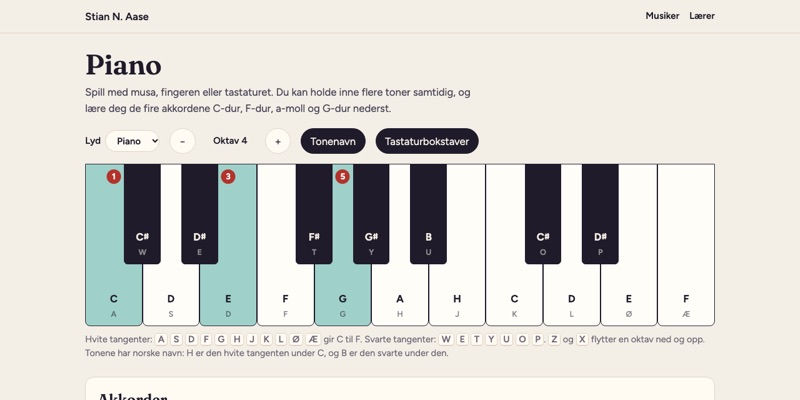
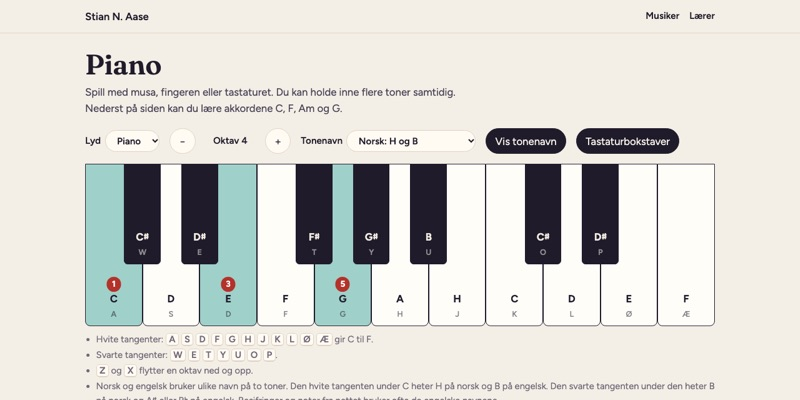
Piano: valg av tonenavn (norsk/engelsk), akkorder som besifringer (C, F, Am, G)

diff --git a/laerer/index.html b/laerer/index.html
@@ -33,7 +33,7 @@
   <div style="justify-self:center"><svg viewBox="0 0 300 190" width="360" role="img" aria-label="Tegning av en skoletavle"><rect x="8" y="8" width="284" height="160" rx="10" class="f-wood"/><rect x="18" y="18" width="264" height="140" rx="6" class="f-board"/><path d="M40 112 H260" class="s-chalk" stroke-width="2.4" stroke-linecap="round"/><path d="M40 112 v10" class="s-chalk" stroke-width="2" stroke-linecap="round"/><path d="M62 112 v6" class="s-chalk" stroke-width="2" stroke-linecap="round"/><path d="M84 112 v6" class="s-chalk" stroke-width="2" stroke-linecap="round"/><path d="M106 112 v6" class="s-chalk" stroke-width="2" stroke-linecap="round"/><path d="M128 112 v6" class="s-chalk" stroke-width="2" stroke-linecap="round"/><path d="M150 112 v10" class="s-chalk" stroke-width="2" stroke-linecap="round"/><path d="M172 112 v6" class="s-chalk" stroke-width="2" stroke-linecap="round"/><path d="M194 112 v6" class="s-chalk" stroke-width="2" stroke-linecap="round"/><path d="M216 112 v6" class="s-chalk" stroke-width="2" stroke-linecap="round"/><path d="M238 112 v6" class="s-chalk" stroke-width="2" stroke-linecap="round"/><path d="M260 112 v10" class="s-chalk" stroke-width="2" stroke-linecap="round"/><circle cx="128" cy="112" r="5" class="f-gold"/><path d="M60 92 L60 48 L104 92 Z" fill="none" class="s-chalk" stroke-width="2.2" stroke-linejoin="round"/><path d="M60 84 h8 v8" fill="none" class="s-chalk" stroke-width="1.6"/><text x="120" y="66" class="f-chalk" font-family="Fraunces, Georgia, serif" font-style="italic" font-size="22">a² + b²</text><rect x="196" y="40" width="11" height="11" rx="2" class="f-chalk" fill="" stroke-width="1.5" opacity="1"/><rect x="209" y="40" width="11" height="11" rx="2" class="f-chalk" fill="" stroke-width="1.5" opacity="1"/><rect x="222" y="40" width="11" height="11" rx="2" class="f-chalk" fill="" stroke-width="1.5" opacity="1"/><rect x="235" y="40" width="11" height="11" rx="2" class="f-chalk" fill="" stroke-width="1.5" opacity="1"/><rect x="248" y="40" width="11" height="11" rx="2" class="f-chalk" fill="" stroke-width="1.5" opacity="1"/><rect x="196" y="53" width="11" height="11" rx="2" class="f-chalk" fill="" stroke-width="1.5" opacity="1"/><rect x="209" y="53" width="11" height="11" rx="2" class="f-chalk" fill="" stroke-width="1.5" opacity="1"/><rect x="222" y="53" width="11" height="11" rx="2" class="s-chalk" fill="none" stroke-width="1.5" opacity="0.8"/><rect x="235" y="53" width="11" height="11" rx="2" class="s-chalk" fill="none" stroke-width="1.5" opacity="0.8"/><rect x="248" y="53" width="11" height="11" rx="2" class="s-chalk" fill="none" stroke-width="1.5" opacity="0.8"/><path d="M256 132 l3 -8 3 8 8 3 -8 3 -3 8 -3 -8 -8 -3z" class="f-gold"/><path d="M236 144 l1.6 -4 1.6 4 4 1.6 -4 1.6 -1.6 4 -1.6 -4 -4 -1.6z" class="f-chalk"/><rect x="40" y="170" width="220" height="10" rx="4" class="f-wood"/><rect x="70" y="164" width="26" height="7" rx="2" class="f-chalk"/></svg></div>
 </div></div>
 <div class="wrap"><svg class="belg" aria-hidden="true" preserveAspectRatio="none"><rect width="100%" height="26" fill="url(#zz)"/></svg></div>
-<section><div class="wrap"><div class="tool-group"><header><svg viewBox="0 0 48 48" aria-hidden="true"><rect x="4" y="7" width="40" height="28" rx="4" class="f-board"/><rect x="2" y="35" width="44" height="5" rx="2" class="f-wood"/><text x="10" y="27" font-family="Fraunces, serif" font-size="15" font-style="italic" class="f-chalk">ord</text><circle cx="37" cy="15" r="3" class="f-gold"/></svg><div><h2>Øvingstavler</h2><p>Til én elev, en liten gruppe eller hele klassen, fra barnetrinnet til ungdomstrinnet.</p></div></header><ul class="tools "><li><a class="tool" style="--accent:#2f6f73" href="talltavla.html"><img class="shot" src="bilder/talltavla.jpg" alt="Talltavla med en tallinje fra 0 til 100 og spørsmålet om hvor et tall ligger" width="800" height="400" loading="lazy"><span class="name">Talltavla<svg><use href="#i-ext"/></svg></span><div class="meta">Tallforståelse på tavla: tallinje, muntlig drill, brøk og prosent, oppstilte regnestykker og korte tallspill.</div><div class="ide"><b>Prøv:</b> Start med fem minutter muntlig drill, og la eleven vise på tallinja hvor svaret ligger.</div></a></li><li><a class="tool" style="--accent:#2f6f73" href="ordtavla.html"><img class="shot" src="bilder/ordtavla.jpg" alt="Ordtavla med ord der kj-lyden er markert: kjøtt, kjede, kjøkken og flere" width="800" height="400" loading="lazy"><span class="name">Ordtavla<svg><use href="#i-ext"/></svg></span><div class="meta">Høyfrekvente ord, lydmønstre, ordbygging, ordlek og lesing på norsk. Du velger fanen som passer eleven.</div><div class="ide"><b>Prøv:</b> Ti minutter med én elev kan være noen runder høyfrekvente ord og ett lydmønster, som kj, lest rad for rad.</div></a></li><li><a class="tool" style="--accent:#2f6f73" href="engelsktavla.html"><img class="shot" src="bilder/engelsktavla.jpg" alt="Engelsktavla med setningen «The ball is over ___.» og valgene their og there" width="800" height="400" loading="lazy"><span class="name">Engelsktavla<svg><use href="#i-ext"/></svg></span><div class="meta">Lyd og skrift i engelsk: vanlige ord, skoleord, lydmønstre, ordbygging og uregelmessige verb.</div><div class="ide"><b>Prøv:</b> Ta en kort runde med Samme lyd før skriving, der eleven velger mellom ord som their og there.</div></a></li><li><a class="tool" style="--accent:#2f6f73" href="begrepstavla.html"><img class="shot" src="bilder/begrepstavla.jpg" alt="Begrepstavla med begrepet «konsument» stort på skjermen" width="800" height="400" loading="lazy"><span class="name">Begrepstavla<svg><use href="#i-ext"/></svg></span><div class="meta">Du limer inn fagbegrepene fra temaet, og tavla gir ni måter å snakke om dem på.</div><div class="ide"><b>Prøv:</b> Lim inn begrepene fra temaet før timen, og la eleven forklare et begrep uten å si ordet.</div></a></li></ul></div><div class="tool-group"><header><svg viewBox="0 0 48 48" aria-hidden="true"><rect x="4" y="4" width="40" height="40" rx="10" class="f-redsoft"/><path d="M19 33 V13 l15 -4 v19" fill="none" class="s-ink" stroke-width="2.6" stroke-linejoin="round"/><circle cx="15.5" cy="33" r="4" class="f-red"/><circle cx="30.5" cy="29" r="4" class="f-red"/></svg><div><h2>Musikk</h2><p>Spill, lytt og lær akkordene, på lærerens Mac eller på elevens egen.</p></div></header><ul class="tools "><li><a class="tool" style="--accent:#b3322a" href="piano.html"><img class="shot" src="bilder/piano.jpg" alt="Pianoet med C-dur merket på tangentene og fingersetting 1, 3 og 5" width="800" height="400" loading="lazy"><span class="name">Piano<svg><use href="#i-ext"/></svg></span><div class="meta">Et piano med piano-, orgel- og synthlyd. Spill med musa, fingeren eller tastaturet, gjerne flere toner samtidig.</div><div class="ide"><b>Prøv:</b> La eleven finne C-dur selv, og øv så på rekka C – G – a – F.</div></a></li><li><a class="tool" style="--accent:#b3322a" href="gehortrener.html"><img class="shot" src="bilder/gehortrener.jpg" alt="Gehørtreneren med fanene Intervaller, Dur eller moll og flere" width="800" height="400" loading="lazy"><span class="name">Gehørtrener<svg><use href="#i-ext"/></svg></span><div class="meta">Øv på intervaller, dur og moll, melodiretning og kadenser, og spill tilbake det du hører på skjermpianoet.</div><div class="ide"><b>Prøv:</b> Start med intervaller på nivå 1, og la eleven synge intervallet inni seg før svaret.</div></a></li></ul></div></div></section>
+<section><div class="wrap"><div class="tool-group"><header><svg viewBox="0 0 48 48" aria-hidden="true"><rect x="4" y="7" width="40" height="28" rx="4" class="f-board"/><rect x="2" y="35" width="44" height="5" rx="2" class="f-wood"/><text x="10" y="27" font-family="Fraunces, serif" font-size="15" font-style="italic" class="f-chalk">ord</text><circle cx="37" cy="15" r="3" class="f-gold"/></svg><div><h2>Øvingstavler</h2><p>Til én elev, en liten gruppe eller hele klassen, fra barnetrinnet til ungdomstrinnet.</p></div></header><ul class="tools "><li><a class="tool" style="--accent:#2f6f73" href="talltavla.html"><img class="shot" src="bilder/talltavla.jpg" alt="Talltavla med en tallinje fra 0 til 100 og spørsmålet om hvor et tall ligger" width="800" height="400" loading="lazy"><span class="name">Talltavla<svg><use href="#i-ext"/></svg></span><div class="meta">Tallforståelse på tavla: tallinje, muntlig drill, brøk og prosent, oppstilte regnestykker og korte tallspill.</div><div class="ide"><b>Prøv:</b> Start med fem minutter muntlig drill, og la eleven vise på tallinja hvor svaret ligger.</div></a></li><li><a class="tool" style="--accent:#2f6f73" href="ordtavla.html"><img class="shot" src="bilder/ordtavla.jpg" alt="Ordtavla med ord der kj-lyden er markert: kjøtt, kjede, kjøkken og flere" width="800" height="400" loading="lazy"><span class="name">Ordtavla<svg><use href="#i-ext"/></svg></span><div class="meta">Høyfrekvente ord, lydmønstre, ordbygging, ordlek og lesing på norsk. Du velger fanen som passer eleven.</div><div class="ide"><b>Prøv:</b> Ti minutter med én elev kan være noen runder høyfrekvente ord og ett lydmønster, som kj, lest rad for rad.</div></a></li><li><a class="tool" style="--accent:#2f6f73" href="engelsktavla.html"><img class="shot" src="bilder/engelsktavla.jpg" alt="Engelsktavla med setningen «The ball is over ___.» og valgene their og there" width="800" height="400" loading="lazy"><span class="name">Engelsktavla<svg><use href="#i-ext"/></svg></span><div class="meta">Lyd og skrift i engelsk: vanlige ord, skoleord, lydmønstre, ordbygging og uregelmessige verb.</div><div class="ide"><b>Prøv:</b> Ta en kort runde med Samme lyd før skriving, der eleven velger mellom ord som their og there.</div></a></li><li><a class="tool" style="--accent:#2f6f73" href="begrepstavla.html"><img class="shot" src="bilder/begrepstavla.jpg" alt="Begrepstavla med begrepet «konsument» stort på skjermen" width="800" height="400" loading="lazy"><span class="name">Begrepstavla<svg><use href="#i-ext"/></svg></span><div class="meta">Du limer inn fagbegrepene fra temaet, og tavla gir ni måter å snakke om dem på.</div><div class="ide"><b>Prøv:</b> Lim inn begrepene fra temaet før timen, og la eleven forklare et begrep uten å si ordet.</div></a></li></ul></div><div class="tool-group"><header><svg viewBox="0 0 48 48" aria-hidden="true"><rect x="4" y="4" width="40" height="40" rx="10" class="f-redsoft"/><path d="M19 33 V13 l15 -4 v19" fill="none" class="s-ink" stroke-width="2.6" stroke-linejoin="round"/><circle cx="15.5" cy="33" r="4" class="f-red"/><circle cx="30.5" cy="29" r="4" class="f-red"/></svg><div><h2>Musikk</h2><p>Spill, lytt og lær akkordene, på lærerens Mac eller på elevens egen.</p></div></header><ul class="tools "><li><a class="tool" style="--accent:#b3322a" href="piano.html"><img class="shot" src="bilder/piano.jpg" alt="Pianoet med C-dur merket på tangentene og fingersetting 1, 3 og 5" width="800" height="400" loading="lazy"><span class="name">Piano<svg><use href="#i-ext"/></svg></span><div class="meta">Et piano med piano-, orgel- og synthlyd. Spill med musa, fingeren eller tastaturet, gjerne flere toner samtidig.</div><div class="ide"><b>Prøv:</b> La eleven finne C-dur selv, og øv så på rekka C – G – Am – F.</div></a></li><li><a class="tool" style="--accent:#b3322a" href="gehortrener.html"><img class="shot" src="bilder/gehortrener.jpg" alt="Gehørtreneren med fanene Intervaller, Dur eller moll og flere" width="800" height="400" loading="lazy"><span class="name">Gehørtrener<svg><use href="#i-ext"/></svg></span><div class="meta">Øv på intervaller, dur og moll, melodiretning og kadenser, og spill tilbake det du hører på skjermpianoet.</div><div class="ide"><b>Prøv:</b> Start med intervaller på nivå 1, og la eleven synge intervallet inni seg før svaret.</div></a></li></ul></div></div></section>
 <section class="om-verktoy"><div class="wrap narrow"><div class="sec-head"><span class="num">om</span><h2 class="sec">Hvordan verktøyene blir til</h2></div><p>Jeg har jobbet som musiker og pedagog i over 25 år. I om lag tjue av dem underviste jeg elever én og én i kulturskolen. Der lærte jeg å lese hva den enkelte trenger akkurat nå, og å lage øvelser som passer. De siste fem årene har jeg jobbet mest på ungdomsskolen, og også der mye én og én, i spesialundervisningen. Underveis har jeg tatt videreutdanning i spesialpedagogikk, matematikk og programmering.</p><p>Med KI-verktøyene som har kommet de siste årene, henger dette sammen på en ny måte. Når jeg ser hva en elev eller en klasse trenger, kan jeg lage et verktøy for det på kort tid, prøve det i timen og justere det etterpå. Tavlene på denne siden startet slik, med konkrete situasjoner i klasserommet.</p></div></section>
 <section class="kilder"><div class="wrap narrow"><div class="sec-head"><span class="num">KI</span><h2 class="sec">Hvem som har gjort hva</h2></div><p>Tavlene er laget i samarbeid med KI-assistenten Claude fra Anthropic. Behovet, de fleste idéene og de pedagogiske valgene er mine. Claude har skrevet koden og førsteutkastene til tekstene, og jeg har prøvd tavlene i undervisningen og bestemt hva som er med. Hver ny versjon testes og faktasjekkes før den legges ut.</p>
   <details class="historikk kildefelt">

diff --git a/laerer/piano.html b/laerer/piano.html
@@ -4,7 +4,7 @@
 <meta charset="utf-8">
 <meta name="viewport" content="width=device-width, initial-scale=1">
 <title>Piano – Stian Norgård Aase</title>
-<meta name="description" content="Et piano i nettleseren med piano-, orgel- og synthlyd, og en enkel innføring i akkordene C-dur, F-dur, a-moll og G-dur.">
+<meta name="description" content="Et piano i nettleseren med piano-, orgel- og synthlyd, og en enkel innføring i akkordene C, F, Am og G.">
 <link rel="stylesheet" href="../fonter/fonter.css">
 <style>
 /* Piano 05.10.26. Lyden lages med Web Audio i nettleseren, så siden laster ingen lydfiler og lagrer ingenting.
@@ -78,12 +78,13 @@ footer a { color: inherit; }
 <header class="top"><div class="wrap"><a href="../">Stian N. Aase</a><nav><a href="../musikk/">Musiker</a><a href="./">Lærer</a></nav></div></header>
 <main class="wrap">
   <h1>Piano</h1>
-  <p class="lead">Spill med musa, fingeren eller tastaturet. Du kan holde inne flere toner samtidig. Nederst på siden kan du lære akkordene C-dur, F-dur, a-moll og G-dur.</p>
+  <p class="lead">Spill med musa, fingeren eller tastaturet. Du kan holde inne flere toner samtidig. Nederst på siden kan du lære akkordene C, F, Am og G.</p>
 
   <div class="controls">
     <label>Lyd <select id="lyd"><option value="piano">Piano</option><option value="orgel">Orgel</option><option value="synth">Synth</option></select></label>
     <span class="oktav"><button id="ned" type="button" aria-label="En oktav ned">−</button><span id="oktavTekst">Oktav 4</span><button id="opp" type="button" aria-label="En oktav opp">+</button></span>
-    <button id="navnBtn" type="button" class="on" aria-pressed="true">Tonenavn</button>
+    <label>Tonenavn <select id="navnValg"><option value="no">Norsk: H og B</option><option value="kryss">Engelsk med ♯: B og A♯</option><option value="b">Engelsk med ♭: B og B♭</option></select></label>
+    <button id="navnBtn" type="button" class="on" aria-pressed="true">Vis tonenavn</button>
     <button id="tastBtn" type="button" class="on" aria-pressed="true">Tastaturbokstaver</button>
   </div>
 
@@ -92,7 +93,7 @@ footer a { color: inherit; }
     <li>Hvite tangenter: <kbd>A</kbd> <kbd>S</kbd> <kbd>D</kbd> <kbd>F</kbd> <kbd>G</kbd> <kbd>H</kbd> <kbd>J</kbd> <kbd>K</kbd> <kbd>L</kbd> <kbd>Ø</kbd> <kbd>Æ</kbd> gir C til F.</li>
     <li>Svarte tangenter: <kbd>W</kbd> <kbd>E</kbd> <kbd>T</kbd> <kbd>Y</kbd> <kbd>U</kbd> <kbd>O</kbd> <kbd>P</kbd>.</li>
     <li><kbd>Z</kbd> og <kbd>X</kbd> flytter en oktav ned og opp.</li>
-    <li>Tonene har norske navn: H er den hvite tangenten under C, og B er den svarte under den.</li>
+    <li>Norsk og engelsk bruker ulike navn på to toner. Den hvite tangenten under C heter H på norsk og B på engelsk. Den svarte tangenten under den heter B på norsk og A♯ eller B♭ på engelsk. Besifringer og noter fra nettet bruker ofte de engelske navnene.</li>
   </ul>
 
   <section class="akkorder" aria-labelledby="akkTittel">
@@ -111,7 +112,7 @@ footer a { color: inherit; }
     <h2 style="margin-top:1rem">Øv på en akkordrekke</h2>
     <p class="forklaring">Spill akkordene i rekkefølge. Når en akkord sitter, kommer den neste.</p>
     <div class="controls">
-      <label>Rekke <select id="rekkeValg"><option value="">Velg</option><option value="C F G C">C – F – G – C</option><option value="C G a F">C – G – a – F (mye brukt i pop)</option></select></label>
+      <label>Rekke <select id="rekkeValg"><option value="">Velg</option><option value="C F G C">C – F – G – C</option><option value="C G Am F">C – G – Am – F (mye brukt i pop)</option></select></label>
       <button id="rekkeNy" type="button" hidden>Start på nytt</button>
     </div>
     <div class="rekke" id="rekke"></div>
@@ -127,7 +128,13 @@ footer a { color: inherit; }
 
   /* ---------- Tonene ---------- */
   // Halvtoner fra C: norske navn (H-systemet, B = svart tangent under H)
-  const NAVN = ["C", "C♯", "D", "D♯", "E", "F", "F♯", "G", "G♯", "A", "B", "H"];
+  // Tre navnesett: norsk (H-systemet), og engelsk med kryss eller b for de svarte tangentene
+  const NAVNESETT = {
+    no:    ["C", "C♯", "D", "D♯", "E", "F", "F♯", "G", "G♯", "A", "B", "H"],
+    kryss: ["C", "C♯", "D", "D♯", "E", "F", "F♯", "G", "G♯", "A", "A♯", "B"],
+    b:     ["C", "D♭", "D", "E♭", "E", "F", "G♭", "G", "A♭", "A", "B♭", "B"],
+  };
+  let NAVN = NAVNESETT.no;
   // Klaviaturet går fra C til F en oktav over (17 halvtoner). Tastene følger fysisk plassering (e.code), så de virker på alle oppsett.
   const HVITE = [0, 2, 4, 5, 7, 9, 11, 12, 14, 16, 17];
   const SVARTE = [1, 3, 6, 8, 10, 13, 15];
@@ -214,9 +221,16 @@ footer a { color: inherit; }
   function lagTangent(steg, farge, x, w) {
     const k = document.createElement("div");
     k.className = "key " + farge; k.style.left = x + "%"; k.style.width = w + "%";
-    k.dataset.steg = steg; k.setAttribute("role", "button"); k.setAttribute("aria-label", NAVN[steg % 12] + (steg >= 12 ? " i oktaven over" : ""));
-    k.innerHTML = `<span class="navn">${NAVN[steg % 12]}</span><span class="tast">${BOKSTAV[steg]}</span>`;
+    k.dataset.steg = steg; k.setAttribute("role", "button");
+    k.innerHTML = `<span class="navn"></span><span class="tast">${BOKSTAV[steg]}</span>`;
     piano.appendChild(k); tangent[steg] = k;
+  }
+  function skrivNavn() {
+    Object.entries(tangent).forEach(([steg, k]) => {
+      k.querySelector(".navn").textContent = NAVN[steg % 12];
+      k.setAttribute("aria-label", NAVN[steg % 12] + (steg >= 12 ? " i oktaven over" : ""));
+    });
+    if (valgt) velgAkkord(valgt, true);
   }
   function trykk(steg, kilde) {
     let n = nede.get(steg);
@@ -288,22 +302,24 @@ footer a { color: inherit; }
     const pa = piano.classList.toggle(klasse); $(id).classList.toggle("on", !pa); $(id).setAttribute("aria-pressed", String(!pa));
   };
   bryter("#navnBtn", "skjul-navn"); bryter("#tastBtn", "skjul-tast");
+  $("#navnValg").addEventListener("change", () => { NAVN = NAVNESETT[$("#navnValg").value]; skrivNavn(); $("#navnValg").blur(); });
   $("#lyd").addEventListener("change", () => $("#lyd").blur());
   // Etter museklikk på en knapp slippes fokus, så tastaturet spiller videre
   document.addEventListener("click", e => { const b = e.target.closest && e.target.closest("button"); if (b && e.detail > 0) b.blur(); });
 
   /* ---------- Akkorder ---------- */
   // steg = tangentene i grunnstilling innenfor klaviaturet, f = fingersetting for høyre hånd
+  // Navnene er besifringer (C, F, Am, G). Teksten bygges med tonenavnene i valgt navnesett.
   const AKKORD = {
-    C: { navn: "C-dur", steg: [0, 4, 7], f: [1, 3, 5], om: "Grunntonen C, den store tersen E og kvinten G. Durakkorder låter ofte lyse og stabile." },
-    F: { navn: "F-dur", steg: [5, 9, 12], f: [1, 3, 5], om: "Grunntonen F, den store tersen A og kvinten C." },
-    a: { navn: "a-moll", steg: [9, 12, 16], f: [1, 3, 5], om: "Grunntonen A, den lille tersen C og kvinten E. Mollakkorder låter ofte mørkere enn dur. Akkorder i moll skrives gjerne med liten bokstav." },
-    G: { navn: "G-dur", steg: [7, 11, 14], f: [1, 3, 5], om: "Grunntonen G, den store tersen H og kvinten D." },
+    C:  { navn: "C", lang: "C-dur", steg: [0, 4, 7], f: [1, 3, 5], om: t => `Grunntonen ${t[0]}, den store tersen ${t[1]} og kvinten ${t[2]}. Durakkorder låter ofte lyse og stabile.` },
+    F:  { navn: "F", lang: "F-dur", steg: [5, 9, 12], f: [1, 3, 5], om: t => `Grunntonen ${t[0]}, den store tersen ${t[1]} og kvinten ${t[2]}.` },
+    Am: { navn: "Am", lang: "a-moll", steg: [9, 12, 16], f: [1, 3, 5], om: t => `Grunntonen ${t[0]}, den lille tersen ${t[1]} og kvinten ${t[2]}. Mollakkorder låter ofte mørkere enn dur, og m-en i Am betyr moll.` },
+    G:  { navn: "G", lang: "G-dur", steg: [7, 11, 14], f: [1, 3, 5], om: t => `Grunntonen ${t[0]}, den store tersen ${t[1]} og kvinten ${t[2]}.` },
   };
   let valgt = null, fingre = false, rekke = [], rekkeIdx = 0;
   const klasser = s => new Set(s.map(x => x % 12));
   Object.keys(AKKORD).forEach(k => {
-    const b = document.createElement("button"); b.type = "button"; b.textContent = AKKORD[k].navn; b.dataset.akk = k;
+    const b = document.createElement("button"); b.type = "button"; b.textContent = AKKORD[k].navn; b.setAttribute("aria-label", AKKORD[k].lang); b.dataset.akk = k;
     b.onclick = () => velgAkkord(k); $("#akkValg").appendChild(b);
   });
   function merk() {
@@ -314,14 +330,15 @@ footer a { color: inherit; }
       if (fingre && !rekke.length) { const f = document.createElement("span"); f.className = "finger"; f.textContent = AKKORD[k].f[i]; tangent[s].appendChild(f); }
     });
   }
-  function velgAkkord(k) {
-    valgt = k; settRekke("");
+  function velgAkkord(k, bareTekst) {
+    valgt = k; if (!bareTekst) settRekke("");
     document.querySelectorAll("#akkValg button").forEach(b => b.classList.toggle("on", b.dataset.akk === k));
     const a = AKKORD[k];
     $("#akkInfo").hidden = false;
-    $("#akkToner").textContent = a.navn + ": " + a.steg.map(s => NAVN[s % 12]).join(" – ");
-    $("#akkForklaring").textContent = a.om + " Spill de tre tonene samtidig. Du kan også legge tonene i en annen rekkefølge. Ligger en annen tone enn grunntonen nederst, kalles det en omvending.";
-    $("#status").textContent = ""; $("#status").className = "status";
+    const t = a.steg.map(s => NAVN[s % 12]);
+    $("#akkToner").textContent = a.navn + " (" + a.lang + "): " + t.join(" – ");
+    $("#akkForklaring").textContent = a.om(t) + " Spill de tre tonene samtidig. Du kan også legge tonene i en annen rekkefølge. Ligger en annen tone enn grunntonen nederst, kalles det en omvending.";
+    if (!bareTekst) { $("#status").textContent = ""; $("#status").className = "status"; }
     merk();
   }
   $("#fingerBtn").onclick = () => {
@@ -372,7 +389,7 @@ footer a { color: inherit; }
   $("#rekkeNy").onclick = () => settRekke($("#rekkeValg").value);
   $("#rekkeValg").addEventListener("change", () => { settRekke($("#rekkeValg").value); $("#rekkeValg").blur(); });
 
-  tegnKlaviatur();
+  tegnKlaviatur(); skrivNavn();
   // Testkrok for riggen (ingen virkning for brukeren)
   window.__piano = { trykk, slipp, slippAlle, velgAkkord, settRekke, nede, tangent, KODE, AKKORD, get oktav() { return oktav; }, flyttOktav };
 })();

diff --git a/musikk/index.html b/musikk/index.html
@@ -46,7 +46,7 @@
   <ul class="records"><li class="rec"><svg class="disc" viewBox="0 0 120 120" role="img" aria-label="Plate: The Journeyman's Test"><g class="spin"><circle cx="60" cy="60" r="58" fill="#1a1722"/><circle cx="60" cy="60" r="30" fill="none" stroke="#fff" stroke-opacity=".07" stroke-width="1"/><circle cx="60" cy="60" r="34" fill="none" stroke="#fff" stroke-opacity=".07" stroke-width="1"/><circle cx="60" cy="60" r="38" fill="none" stroke="#fff" stroke-opacity=".07" stroke-width="1"/><circle cx="60" cy="60" r="42" fill="none" stroke="#fff" stroke-opacity=".07" stroke-width="1"/><circle cx="60" cy="60" r="46" fill="none" stroke="#fff" stroke-opacity=".07" stroke-width="1"/><circle cx="60" cy="60" r="50" fill="none" stroke="#fff" stroke-opacity=".07" stroke-width="1"/><circle cx="60" cy="60" r="54" fill="none" stroke="#fff" stroke-opacity=".07" stroke-width="1"/><path d="M60 4 A56 56 0 0 1 112 42" fill="none" stroke="#fff" stroke-opacity=".18" stroke-width="3" stroke-linecap="round"/><circle cx="60" cy="60" r="24" fill="#b3322a"/><text x="60" y="64.5" text-anchor="middle" font-family="Figtree, sans-serif" font-weight="700" font-size="12" fill="#fff" letter-spacing=".5">R|A</text><circle cx="60" cy="60" r="2.6" fill="#1a1722"/></g></svg><div><img class="logo" src="royseng-aase-logo.jpg" alt="Røyseng | Aase" width="2000" height="158"><div class="who">Røyseng/Aase</div><div class="title">The Journeyman's Test</div><div class="meta">2008 · duo for to bajaner: Grieg, Piazzolla, Vivaldi og Bach, og ny norsk musikk</div><div class="pills"><a href="https://open.spotify.com/album/3mA7PVB6mHPPDYkiJm0med"><svg><use href="#i-play"/></svg>Spotify</a><a href="https://play.qobuz.com/album/kblv3fd0qxf9b"><svg><use href="#i-play"/></svg>Qobuz</a></div><div class="utdrag" data-spor="2kst5Kno0jMRRMKuNYsOPi"><button type="button" class="spill"><svg><use href="#i-play"/></svg>Hør «Close Your Eyes And Listen»</button></div></div></li><li class="rec"><svg class="disc" viewBox="0 0 120 120" role="img" aria-label="Plate: Hekla Stålstrenga"><g class="spin"><circle cx="60" cy="60" r="58" fill="#1a1722"/><circle cx="60" cy="60" r="30" fill="none" stroke="#fff" stroke-opacity=".07" stroke-width="1"/><circle cx="60" cy="60" r="34" fill="none" stroke="#fff" stroke-opacity=".07" stroke-width="1"/><circle cx="60" cy="60" r="38" fill="none" stroke="#fff" stroke-opacity=".07" stroke-width="1"/><circle cx="60" cy="60" r="42" fill="none" stroke="#fff" stroke-opacity=".07" stroke-width="1"/><circle cx="60" cy="60" r="46" fill="none" stroke="#fff" stroke-opacity=".07" stroke-width="1"/><circle cx="60" cy="60" r="50" fill="none" stroke="#fff" stroke-opacity=".07" stroke-width="1"/><circle cx="60" cy="60" r="54" fill="none" stroke="#fff" stroke-opacity=".07" stroke-width="1"/><path d="M60 4 A56 56 0 0 1 112 42" fill="none" stroke="#fff" stroke-opacity=".18" stroke-width="3" stroke-linecap="round"/><circle cx="60" cy="60" r="24" fill="#2f6f73"/><text x="60" y="64.5" text-anchor="middle" font-family="Figtree, sans-serif" font-weight="700" font-size="12" fill="#fff" letter-spacing=".5">HS</text><circle cx="60" cy="60" r="2.6" fill="#1a1722"/></g></svg><div><div class="who">Hekla Stålstrenga</div><div class="title">Hekla Stålstrenga</div><div class="meta">2008 · <a href="https://no.wikipedia.org/wiki/Spellemannprisen_2008">nominert til Spellemannprisen</a> · trekkspill på «Hjertebank», også på samleplata <a href="https://www.discogs.com/release/6915516-Various-FolkeLarm-Oslo2009">FolkeLarm Oslo2009</a></div><div class="pills"><a href="https://open.spotify.com/album/0ZYuiQuKbJpBzC7t4WRTEW"><svg><use href="#i-play"/></svg>Spotify</a><a href="https://play.qobuz.com/album/hf58759hqlthc"><svg><use href="#i-play"/></svg>Qobuz</a></div><div class="utdrag" data-spor="4IIa8m1o6p906FJPgXB2cd"><button type="button" class="spill"><svg><use href="#i-play"/></svg>Hør «Hjertebank»</button></div></div></li><li class="rec"><svg class="disc" viewBox="0 0 120 120" role="img" aria-label="Plate: Borderland / Grenseland"><g class="spin"><circle cx="60" cy="60" r="58" fill="#1a1722"/><circle cx="60" cy="60" r="30" fill="none" stroke="#fff" stroke-opacity=".07" stroke-width="1"/><circle cx="60" cy="60" r="34" fill="none" stroke="#fff" stroke-opacity=".07" stroke-width="1"/><circle cx="60" cy="60" r="38" fill="none" stroke="#fff" stroke-opacity=".07" stroke-width="1"/><circle cx="60" cy="60" r="42" fill="none" stroke="#fff" stroke-opacity=".07" stroke-width="1"/><circle cx="60" cy="60" r="46" fill="none" stroke="#fff" stroke-opacity=".07" stroke-width="1"/><circle cx="60" cy="60" r="50" fill="none" stroke="#fff" stroke-opacity=".07" stroke-width="1"/><circle cx="60" cy="60" r="54" fill="none" stroke="#fff" stroke-opacity=".07" stroke-width="1"/><path d="M60 4 A56 56 0 0 1 112 42" fill="none" stroke="#fff" stroke-opacity=".18" stroke-width="3" stroke-linecap="round"/><circle cx="60" cy="60" r="24" fill="#c98f22"/><text x="60" y="64.5" text-anchor="middle" font-family="Figtree, sans-serif" font-weight="700" font-size="12" fill="#fff" letter-spacing=".5">IBB</text><circle cx="60" cy="60" r="2.6" fill="#1a1722"/></g></svg><div><div class="who">Ingunn Bjørgo Band</div><div class="title">Borderland / Grenseland</div><div class="meta">2007 · folkemusikk</div><div class="pills"><a href="https://open.spotify.com/album/60YQohKBx2l9gAlGfPeEDb"><svg><use href="#i-play"/></svg>Spotify</a><a href="https://music.apple.com/us/album/borderland-grenseland/297380135"><svg><use href="#i-play"/></svg>Apple Music</a><a href="https://play.qobuz.com/album/oevibdim8wibc"><svg><use href="#i-play"/></svg>Qobuz</a></div><div class="utdrag" data-spor="0zp1joct8hEgBBdTvRWVUi"><button type="button" class="spill"><svg><use href="#i-play"/></svg>Hør «Askerladd på avveie»</button></div></div></li><li class="rec"><svg class="disc" viewBox="0 0 120 120" role="img" aria-label="Plate: Full Oppladding"><g class="spin"><circle cx="60" cy="60" r="58" fill="#1a1722"/><circle cx="60" cy="60" r="30" fill="none" stroke="#fff" stroke-opacity=".07" stroke-width="1"/><circle cx="60" cy="60" r="34" fill="none" stroke="#fff" stroke-opacity=".07" stroke-width="1"/><circle cx="60" cy="60" r="38" fill="none" stroke="#fff" stroke-opacity=".07" stroke-width="1"/><circle cx="60" cy="60" r="42" fill="none" stroke="#fff" stroke-opacity=".07" stroke-width="1"/><circle cx="60" cy="60" r="46" fill="none" stroke="#fff" stroke-opacity=".07" stroke-width="1"/><circle cx="60" cy="60" r="50" fill="none" stroke="#fff" stroke-opacity=".07" stroke-width="1"/><circle cx="60" cy="60" r="54" fill="none" stroke="#fff" stroke-opacity=".07" stroke-width="1"/><path d="M60 4 A56 56 0 0 1 112 42" fill="none" stroke="#fff" stroke-opacity=".18" stroke-width="3" stroke-linecap="round"/><circle cx="60" cy="60" r="24" fill="#5b3f75"/><text x="60" y="64.5" text-anchor="middle" font-family="Figtree, sans-serif" font-weight="700" font-size="12" fill="#fff" letter-spacing=".5">AL</text><circle cx="60" cy="60" r="2.6" fill="#1a1722"/></g></svg><div><div class="who">Askerladden</div><div class="title">Full Oppladding</div><div class="meta">2006 · gammeldans og folkemusikk</div><div class="pills"><a href="https://open.spotify.com/album/25SGd0zQUH8HfAPtNt7Bf6"><svg><use href="#i-play"/></svg>Spotify</a><a href="https://play.qobuz.com/album/qvzw1zzoy8eca"><svg><use href="#i-play"/></svg>Qobuz</a></div><div class="utdrag" data-spor="2XQFgr790WgG6AHWCOUacp"><button type="button" class="spill"><svg><use href="#i-play"/></svg>Hør «Med Ludvig i sekken»</button></div></div></li></ul>
   <div class="callout prov">
     <svg viewBox="0 0 44 44" aria-hidden="true"><rect x="4" y="12" width="36" height="20" rx="3" class="f-paper s-ink" stroke-width="2"/><path d="M11 12 V24 M18 12 V24 M26 12 V24 M33 12 V24" class="s-ink" stroke-width="2.4"/></svg>
-    <div><p><b>Prøv selv.</b> Jeg lager også musikkverktøy til undervisningen. På <a href="../laerer/piano.html">pianoet</a> kan du spille med tastaturet og lære akkordene C, F, a og G. <a href="../laerer/gehortrener.html">Gehørtreneren</a> øver deg i å høre intervaller, dur og moll, og i å spille tilbake det du hører.</p></div>
+    <div><p><b>Prøv selv.</b> Jeg lager også musikkverktøy til undervisningen. På <a href="../laerer/piano.html">pianoet</a> kan du spille med tastaturet og lære akkordene C, F, Am og G. <a href="../laerer/gehortrener.html">Gehørtreneren</a> øver deg i å høre intervaller, dur og moll, og i å spille tilbake det du hører.</p></div>
   </div>
   <p class="spotify-merk">Spilleren hentes fra Spotify først når du trykker «Hør». Uten Spotify-konto hører du et utdrag på 30 sekunder.</p>
   <script src="../lytt.js" defer></script>
